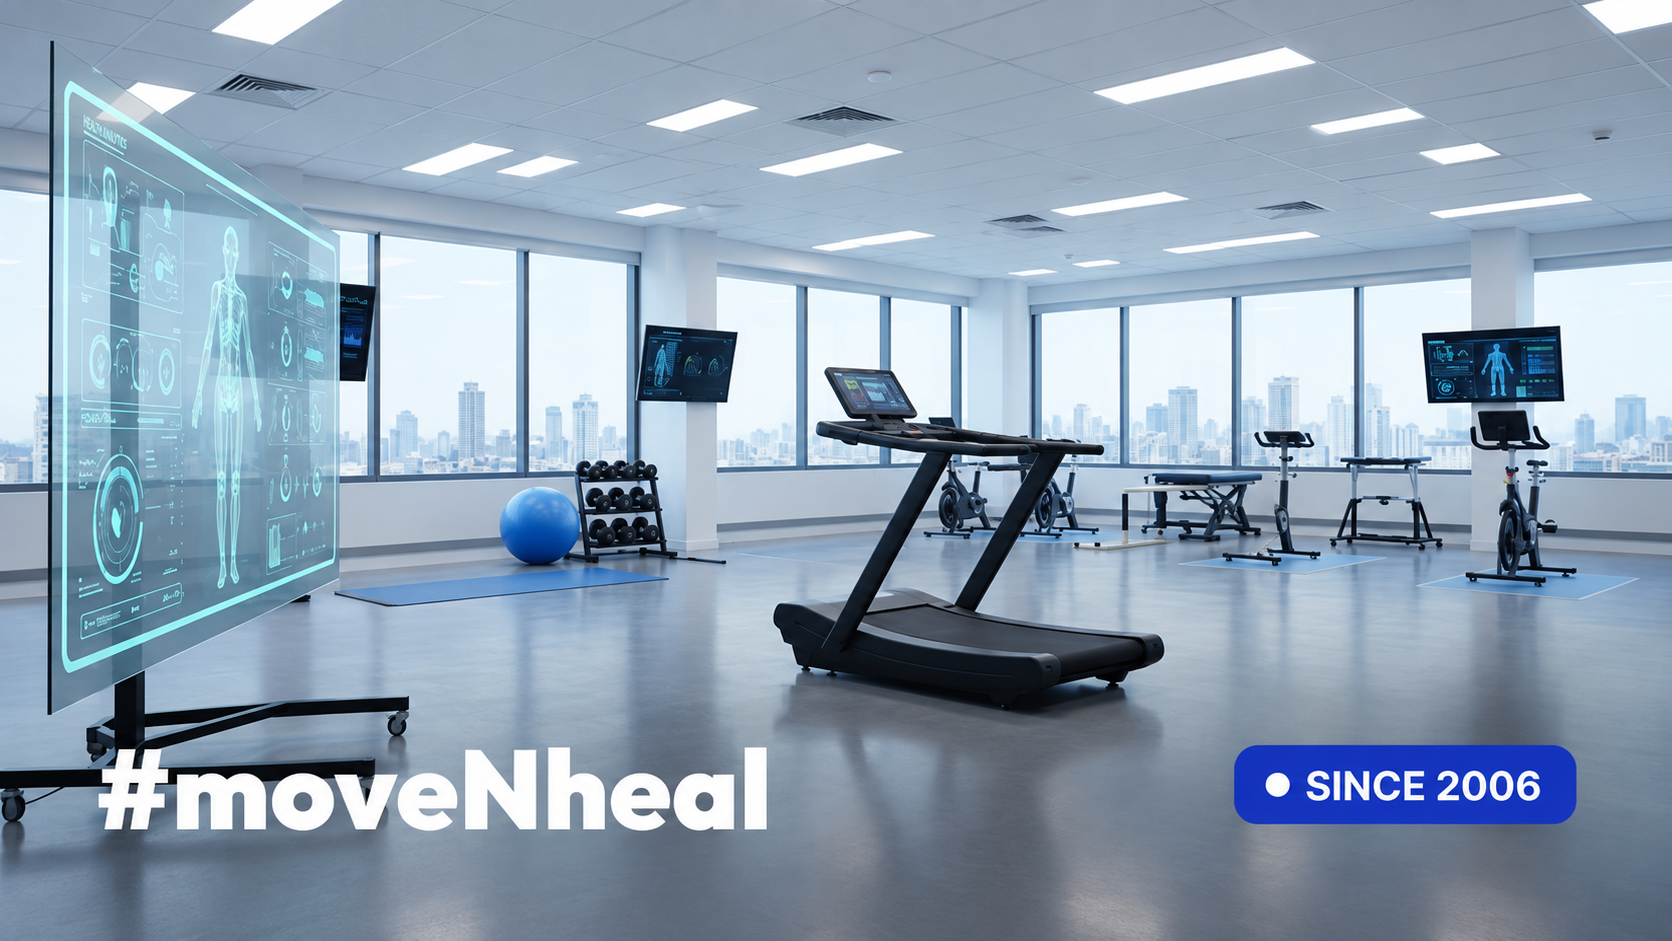
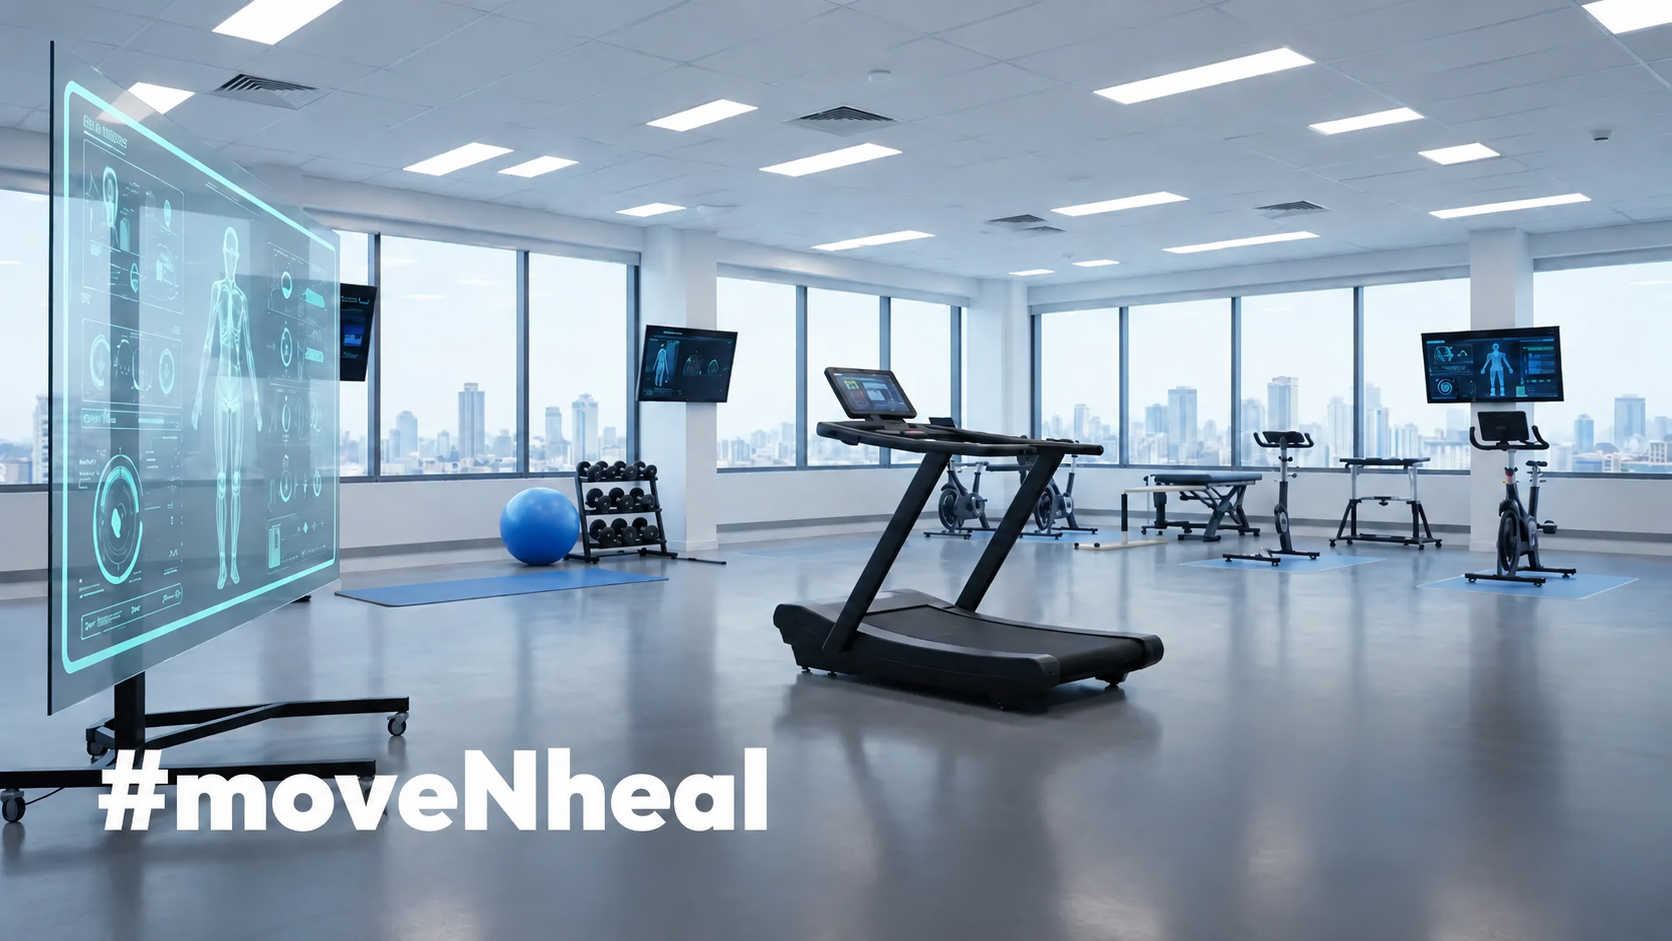
sparrc 19oct correction

diff --git a/components/Aboutpage/AboutMission.tsx b/components/Aboutpage/AboutMission.tsx
@@ -7,7 +7,7 @@ const ease = [0.16, 1, 0.3, 1] as const;
 
 const missionData = {
   topParagraph:
-    "SPARRC is the brainchild of Mrs Sujatha Pugazhendi, who recently won The Best Women Entrepreneur Award – Tamilnadu Medium & Small Scale Industries division. Sujatha Pugazhendi along with her husband Dr Kannan Pugazhendi started SPARRC in the year 2006. Dr Kannan Pugazhendi’s expertise in sports medicine and Sujatha’s passionate entrepreneurship made SPARRC to grow rapidly. We take immense pride in noting that the success rate for our “avoid surgery” service is very high and we have clientele from across India and several other countries. We are now 200+ strong workforce sharing one common goal – to effectively design scientific exercise intervention to maximize performance, facilitate recovery from illness/injury/surgery and disability in the areas of Sports, Dance, Martial Arts, Fitness, Work, Adventure Sport & Leisure. We ensure our clients attain the priceless possession of health through Fitness. We encourage our clients to lead an active lifestyle to be able to enjoy their Life to the fullest.",
+    "SPARRC is the brainchild of Mrs Sujatha Pugazhendi, who recently won The Best Women Entrepreneur Award – Tamilnadu Medium & Small Scale Industries division. Sujatha Pugazhendi along with her husband Dr Kannan Pugazhendi started SPARRC . Dr Kannan Pugazhendi’s expertise in sports medicine and Sujatha’s passionate entrepreneurship made SPARRC to grow rapidly. We take immense pride in noting that the success rate for our “avoid surgery” service is very high and we have clientele from across India and several other countries. We are now 200+ strong workforce sharing one common goal – to effectively design scientific exercise intervention to maximize performance, facilitate recovery from illness/injury/surgery and disability in the areas of Sports, Dance, Martial Arts, Fitness, Work, Adventure Sport & Leisure. We ensure our clients attain the priceless possession of health through Fitness. We encourage our clients to lead an active lifestyle to be able to enjoy their Life to the fullest.",
 
   title: "OUR MISSION",
 

diff --git a/mobile-src/component/Aboutpage/SparrcStoryMobile.tsx b/mobile-src/component/Aboutpage/SparrcStoryMobile.tsx
@@ -486,7 +486,7 @@ export default function SparrcStoryMobile() {
               text-[#68758A]
             "
           >
-            For 40 years, SPARRC has worked with the body where movement begins: muscle and fascia. We understand pain, restore movement and rebuild strength at its source. We integrate myofascial and exercise interventions  to help the body perform better. Over 2 million people across different walks of life have been impacted by SPARRC
+            For 40 years , Dr Kannan Pugazhendi’ s SPARRC has worked with the body where movement begins: muscle and fascia. We understand pain, restore movement and rebuild strength at its source. We integrate myofascial and exercise interventions  to help the body perform better. Over 2 million people across different walks of life have been impacted by SPARRC
           </p>
 
           {/* STATS */}
@@ -907,14 +907,11 @@ export default function SparrcStoryMobile() {
                   We are SPARRC - Sports Performance
                   Assessment Rehabilitation Research
                   Counseling Institute - one of
-                  India&apos;s leading sports and fitness
-                  medicine networks. Since 2006, we have
+                  India&apos;s pioneering instead of leading sports and fitness
+                  medicine networks.  we have
                   believed in prescribing exercise, not
                   medicine, wherever it is the better
-                  answer. Across 21 centres, we have
-                  helped over a million people move, heal
-                  and live better, with a 95% success
-                  rate in resolving pain without surgery.
+                  answer. Across 21 centres, we have helped over a million people move, heal and live better, and many avoid surgery they did not need, with exercise as the prescription.
                 </p>
               </section>
             )}

diff --git a/components/Homepage/WhoWeAreSparrc.tsx b/components/Homepage/WhoWeAreSparrc.tsx
@@ -6,7 +6,7 @@ import { motion } from "framer-motion";
 const ease: [number, number, number, number] = [0.16, 1, 0.3, 1];
 
 const paragraphs = [
-     `We are SPARRC — Sports Performance Assessment Rehabilitation Research Counseling Institute — India’s leading sports and fitness medicine chain. SPARRC was founded in 2006 on a simple, scientific concept: exercise intervention not medicine, wherever it is genuinely the better answer.`, 
+     `We are SPARRC — Sports Performance Assessment Rehabilitation Research Counseling Institute — India’s leading sports and fitness medicine chain. SPARRC was founded over 40 years ago on a simple, scientific concept: exercise intervention, not medicine, wherever it is genuinely the better answer.`, 
      `We call the people we treat “medical guests”, not patients, because we believe healing works better as a relationship than a transaction. SPARRC has achieved a 95% success rate in resolving pain without surgery.`,
      `SPARRC is led by Dr Kannan Pugazhendi, who brings four decades of expertise in sports and fitness medicine, and Mrs Sujatha Pugazhendi, whose vision has helped take SPARRC from a single room to 21 centres across India. Today, our work spans sports medicine and rehabilitation, and extends into breath and movement science through our Kinesio Health discipline.`,
 
@@ -23,8 +23,8 @@ const stats = [
     label: "Centres Across 8 location",
   },
   {
-    value: "2006",
-    label: "Founded",
+    value: "40+ ",
+    label: "Years",
   },
 ];
 

diff --git a/mobile-src/component/Homepage/Recoveryjourneysection.tsx b/mobile-src/component/Homepage/Recoveryjourneysection.tsx
@@ -338,7 +338,7 @@ export default function RecoveryJourneySection() {
             md:text-[21px]
           "
         >
-          For 40 years, SPARRC has worked with the body where movement begins: muscle and fascia. We understand pain, restore movement and rebuild strength at its source. We integrate myofascial and exercise interventions  to help the body perform better. Over 2 million people across different walks of life have been impacted by SPARRC
+          For 40 years , Dr Kannan Pugazhendi’ s SPARRC has worked has worked with the body where movement begins: muscle and fascia. We understand pain, restore movement and rebuild strength at its source. We integrate myofascial and exercise interventions  to help the body perform better. Over 2 million people across different walks of life have been impacted by SPARRC
         </p>
       </motion.div>
 

diff --git a/components/Aboutpage/AboutDetails.tsx b/components/Aboutpage/AboutDetails.tsx
@@ -9,7 +9,7 @@ const aboutData = {
   intro:
     "SPARRC — Sports Performance Assessment Rehabilitation Research Counseling Institute is India’s leading Sports and Fitness Medicine Clinic.",
   founded:
-    "SPARRC was founded in 2006 by Dr. Kannan Pugazhendi and Mrs. Sujatha Pugazhendi. Since then, SPARRC:",
+    "For 40 years , Dr Kannan Pugazhendi’ s SPARRC has worked:",
   points: [
     {
       icon: "/icons/logo-icon.png",
